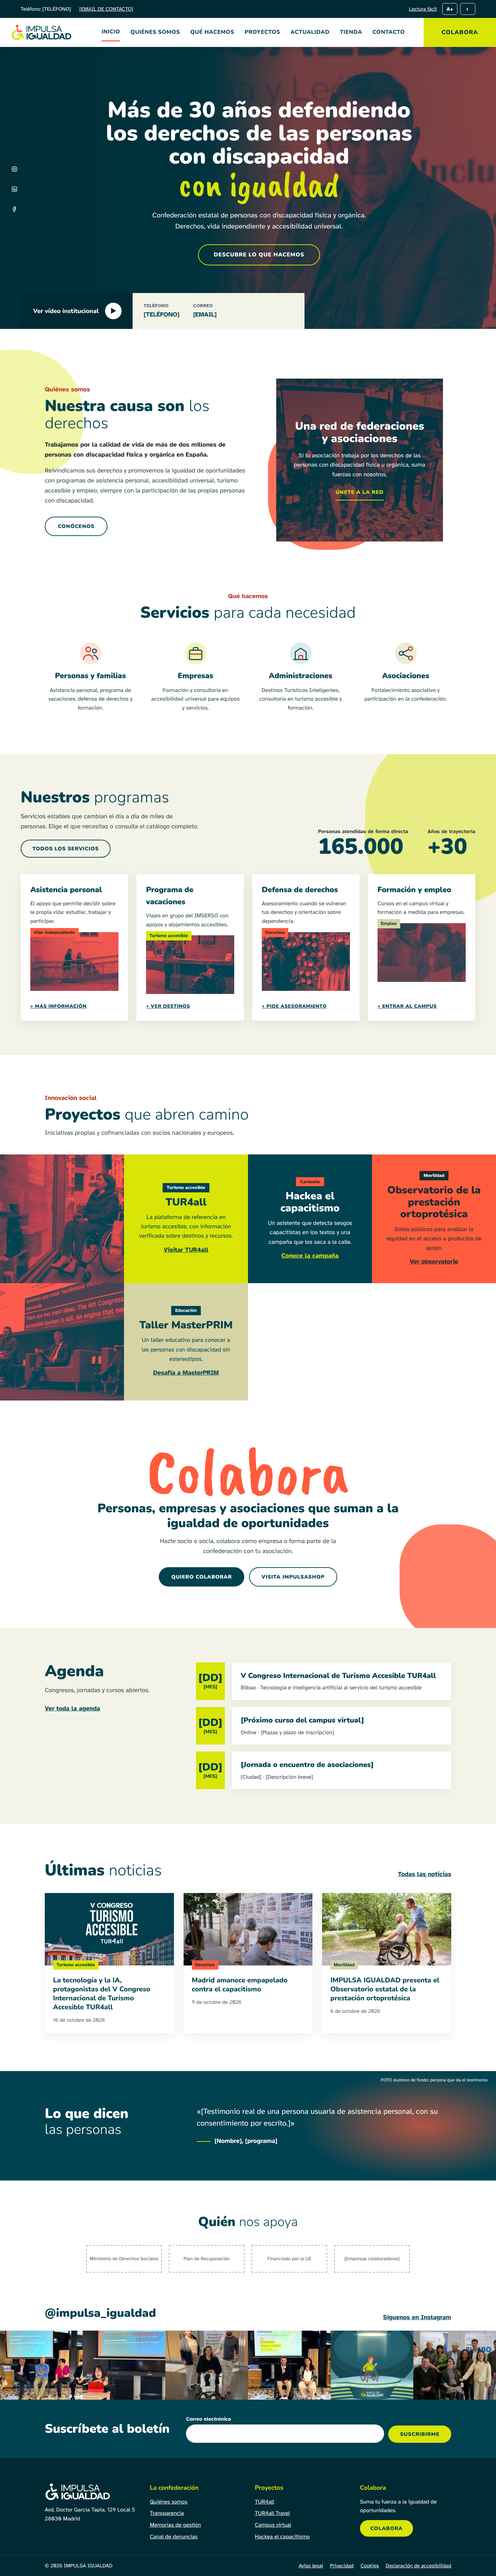
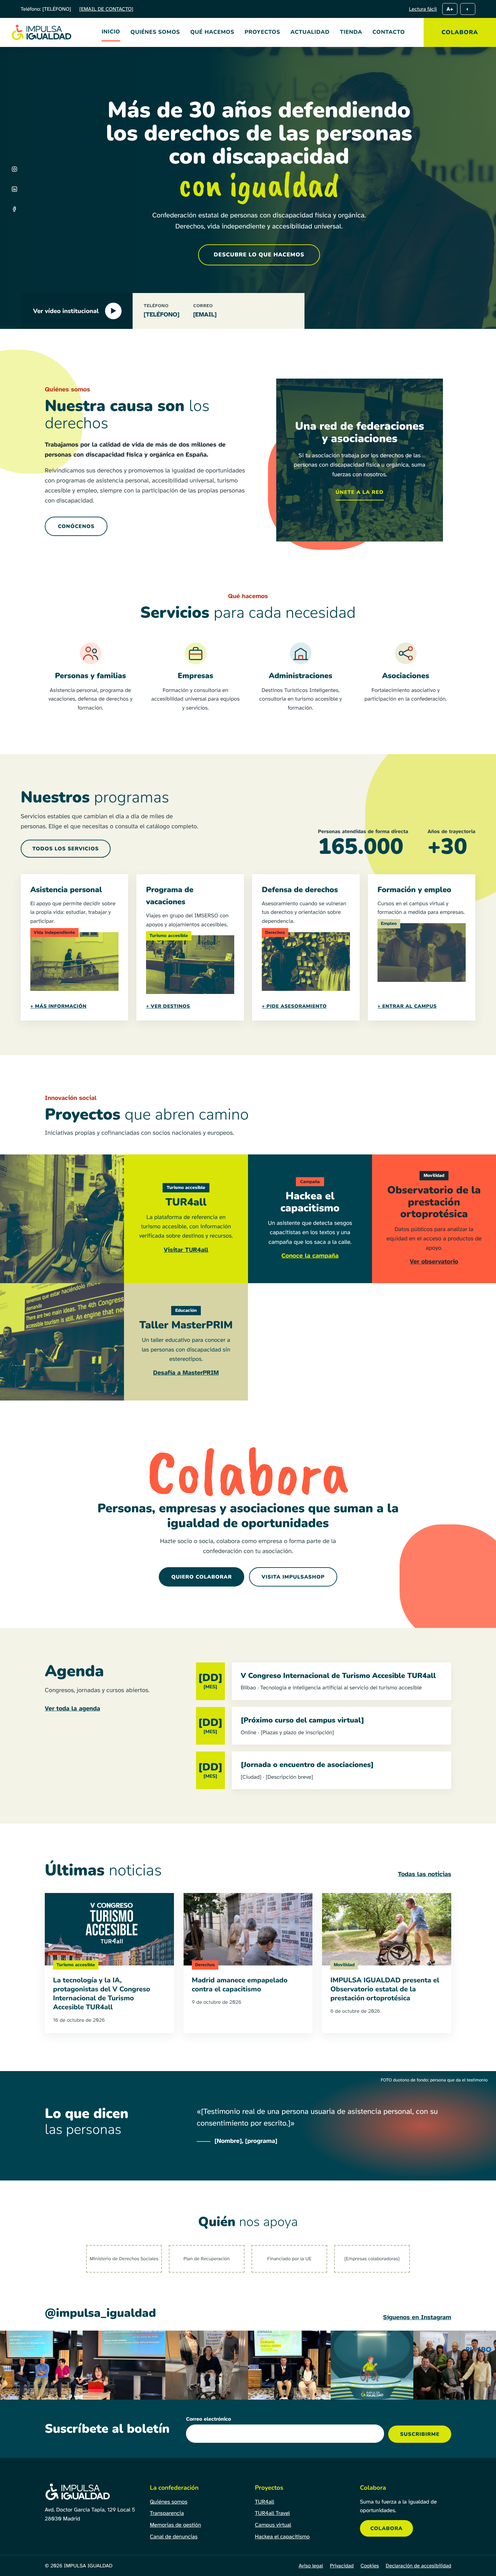
Cambia el duotono de las fotos a azul y verde
El naranja perdía contraste con el azul para personas con daltonismo.
El verde corporativo mantiene un contraste de luminosidad de 8:1 con
cualquier tipo de visión del color. Se oscurece la capa bajo el texto
para conservar el contraste mínimo de 4,5:1 y se actualizan las capturas.

Claude-Session: https://claude.ai/code/session_01ViN75pexfLAHXabH9yyvxK

diff --git a/index.html b/index.html
@@ -12,18 +12,19 @@ body{margin:0;background:#FFFFFF}
 a{color:#004250}a:hover{color:#B8361F}
 a:focus-visible,button:focus-visible,input:focus-visible,summary:focus-visible{outline:3px solid #FF5C3E;outline-offset:3px}
 
-/* Fotos: duotono azul #004250 + naranja #FF5C3E con CSS; los archivos originales no se modifican */
+/* Fotos: duotono azul #004250 + verde #D9E506 con CSS; los archivos originales no se modifican.
+   Se eligió el verde y no el naranja porque el contraste de luminosidad con el azul (8:1) se mantiene con cualquier tipo de daltonismo. */
 .foto,.duo{position:absolute;inset:0;overflow:hidden}
 .foto img,.duo img{position:absolute;inset:0;width:100%;height:100%;object-fit:cover;display:block}
-.duo{background:#FF5C3E;isolation:isolate}
+.duo{background:var(--duo-claro,#D9E506);isolation:isolate}
 .duo img{filter:grayscale(1) contrast(1.15);mix-blend-mode:multiply}
 .duo::after{content:"";position:absolute;inset:0;background:#004250;mix-blend-mode:lighten;pointer-events:none}
 .capa{position:absolute;inset:0;pointer-events:none}
 .sobre-foto>:not(.duo):not(.capa){position:relative}
 .hero-foto{left:auto;width:58%;-webkit-mask-image:linear-gradient(90deg,transparent 0,#000 30%);mask-image:linear-gradient(90deg,transparent 0,#000 30%)}
 .hero-foto img{object-position:50% 12%}
-.hero-capa{background:linear-gradient(90deg,rgba(0,42,51,.9) 0%,rgba(0,42,51,.54) 55%,rgba(0,42,51,.42) 100%)}
-@media (max-width:900px){.hero-foto{width:100%;-webkit-mask-image:none;mask-image:none}.hero-capa{background:rgba(0,42,51,.6)}}
+.hero-capa{background:linear-gradient(90deg,rgba(0,42,51,.9) 0%,rgba(0,42,51,.74) 55%,rgba(0,42,51,.64) 100%)}
+@media (max-width:900px){.hero-foto{width:100%;-webkit-mask-image:none;mask-image:none}.hero-capa{background:rgba(0,42,51,.76)}}
 .insta{position:relative;height:200px;overflow:hidden}
 .insta img{width:100%;height:100%;object-fit:cover;display:block}
 /* Móvil: el titular del hero y las palabras en letra de pincel se salían de la pantalla */
@@ -110,7 +111,7 @@ a:focus-visible,button:focus-visible,input:focus-visible,summary:focus-visible{o
 <div aria-hidden="true" style="position: absolute; left: 0; bottom: 0; width: 70%; height: 70%; background: #FF5C3E; border-radius: 40% 60% 55% 45%; opacity: 0.85"></div>
 <div class="sobre-foto" style="position: relative; background: #004250; color: #FFFFFF; padding: 56px 44px; text-align: center; min-height: 360px; display: flex; flex-direction: column; justify-content: center; gap: 16px">
 <div class="duo"><img src="img/red.webp" alt="" width="1200" height="900" loading="lazy"></div>
-<div aria-hidden="true" class="capa" style="background: rgba(0,42,51,0.52)"></div>
+<div aria-hidden="true" class="capa" style="background: rgba(0,42,51,0.7)"></div>
 <h3 style="margin: 0; font-family: Nunito, sans-serif; font-weight: 900; font-size: 32px; line-height: 1.15">Una red de federaciones y asociaciones</h3>
 <p style="margin: 0; font-size: 17px">Si tu asociación trabaja por los derechos de las personas con discapacidad física u orgánica, suma fuerzas con nosotros.</p>
 <a href="#" style="align-self: center; text-decoration: none; color: #D9E506; font-family: Nunito, sans-serif; font-weight: 900; text-transform: uppercase; letter-spacing: 0.06em; font-size: 15px; padding: 10px 0; border-bottom: 2px solid #D9E506">Únete a la red</a>

diff --git a/CREDITOS.md b/CREDITOS.md
@@ -2,7 +2,7 @@
 
 Demo de la nueva home de IMPULSA IGUALDAD. Todas las imágenes proceden de www.impulsaigualdad.org, descargadas el 10 de noviembre de 2026. No se ha usado ninguna imagen de Unsplash ni de Pexels.
 
-Los originales están sin modificar en `fotos/web/`. Las versiones optimizadas (WebP, recortadas y reducidas) están en `img/`. El duotono azul y naranja se aplica con CSS en `index.html`, no sobre los archivos.
+Los originales están sin modificar en `fotos/web/`. Las versiones optimizadas (WebP, recortadas y reducidas) están en `img/`. El duotono azul (#004250) y verde (#D9E506) se aplica con CSS en `index.html`, no sobre los archivos.
 
 ## Licencia
 
